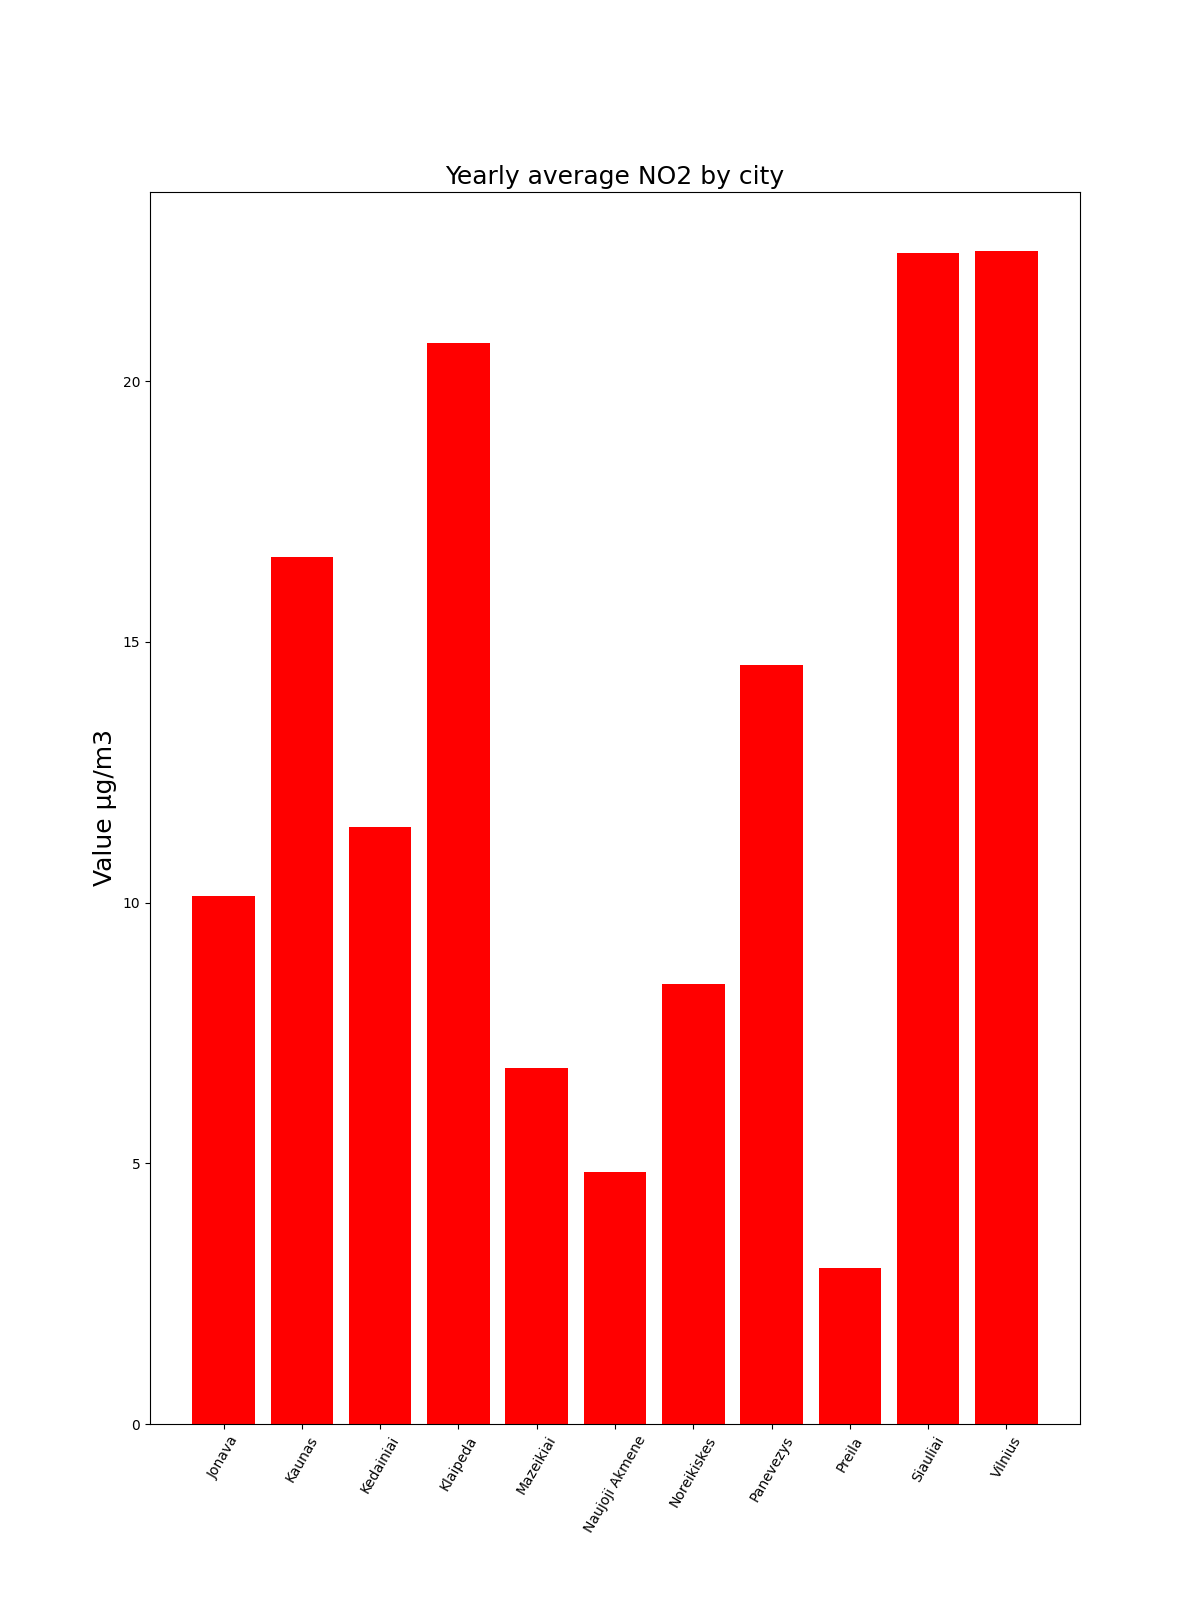
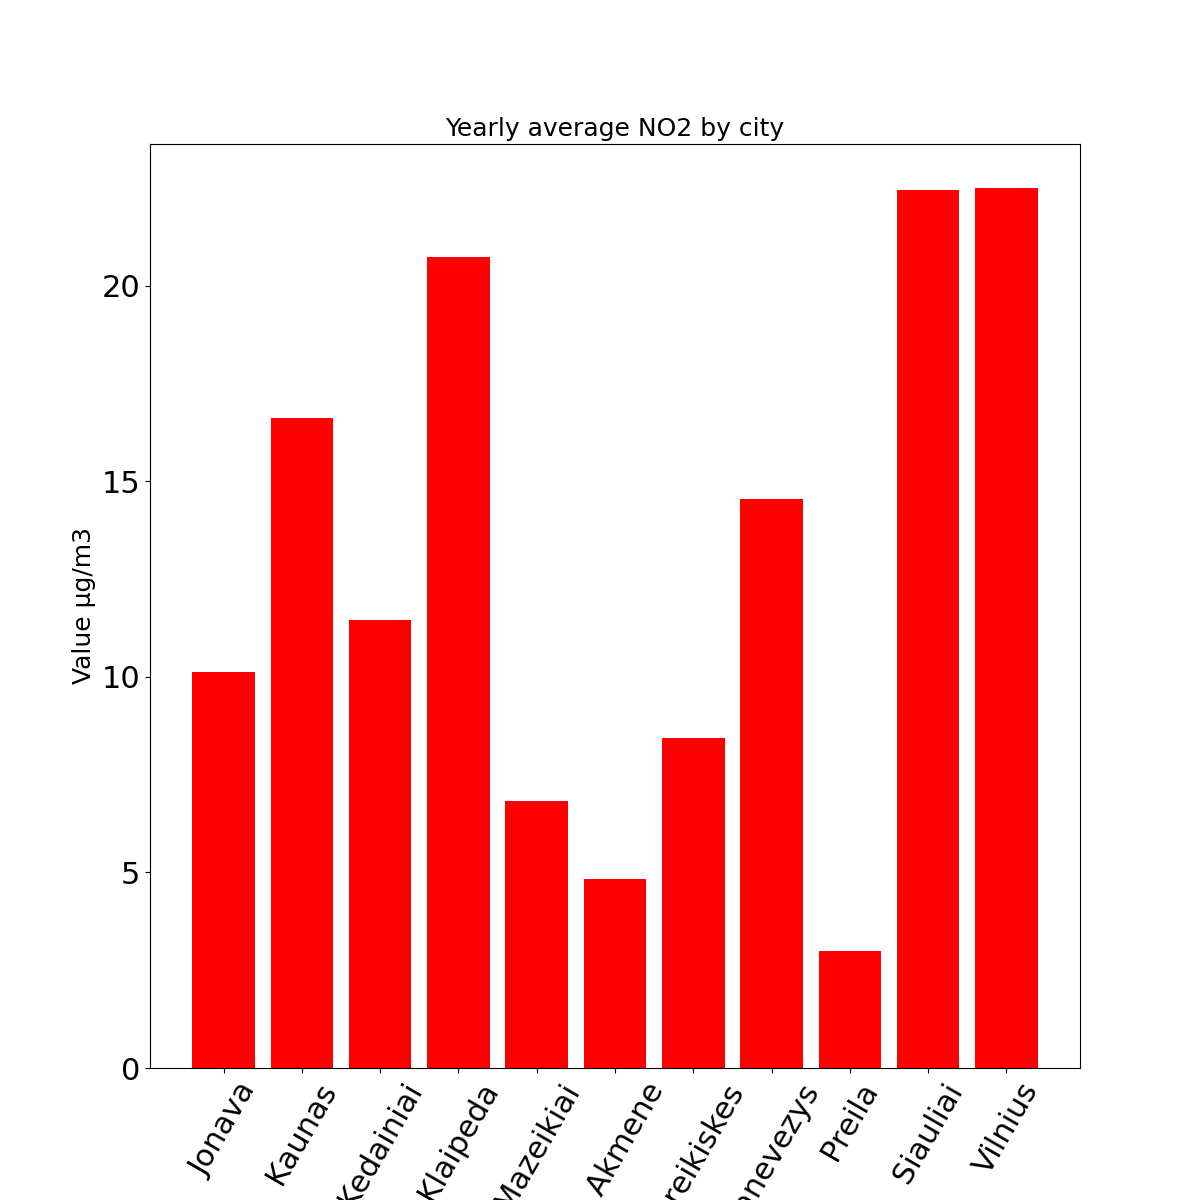
update

diff --git a/html/live_map.html b/html/live_map.html
@@ -25,7 +25,7 @@
             <meta name="viewport" content="width=device-width,
                 initial-scale=1.0, maximum-scale=1.0, user-scalable=no" />
             <style>
-                #map_e0afb3245011cf2587e348d327e711dc {
+                #map_e2ff37610c3a9b7bd32cf9a162b921fe {
                     position: relative;
                     width: 100.0%;
                     height: 100.0%;
@@ -39,14 +39,14 @@
 <body>
     
     
-            <div class="folium-map" id="map_e0afb3245011cf2587e348d327e711dc" ></div>
+            <div class="folium-map" id="map_e2ff37610c3a9b7bd32cf9a162b921fe" ></div>
         
 </body>
 <script>
     
     
-            var map_e0afb3245011cf2587e348d327e711dc = L.map(
-                "map_e0afb3245011cf2587e348d327e711dc",
+            var map_e2ff37610c3a9b7bd32cf9a162b921fe = L.map(
+                "map_e2ff37610c3a9b7bd32cf9a162b921fe",
                 {
                     center: [55.11201074940712, 24.065172740215825],
                     crs: L.CRS.EPSG3857,
@@ -60,42 +60,42 @@
 
         
     
-            var tile_layer_abd4ab80337f110446980473f0b4ad60 = L.tileLayer(
+            var tile_layer_9477a2d74ea925e4f2a069037dcdb2f0 = L.tileLayer(
                 "https://cartodb-basemaps-{s}.global.ssl.fastly.net/light_all/{z}/{x}/{y}.png",
                 {"attribution": "\u0026copy; \u003ca target=\"_blank\" href=\"http://www.openstreetmap.org/copyright\"\u003eOpenStreetMap\u003c/a\u003e contributors \u0026copy; \u003ca target=\"_blank\" href=\"http://cartodb.com/attributions\"\u003eCartoDB\u003c/a\u003e, CartoDB \u003ca target=\"_blank\" href =\"http://cartodb.com/attributions\"\u003eattributions\u003c/a\u003e", "detectRetina": false, "maxNativeZoom": 18, "maxZoom": 18, "minZoom": 0, "noWrap": false, "opacity": 1, "subdomains": "abc", "tms": false}
             );
         
     
-                tile_layer_abd4ab80337f110446980473f0b4ad60.addTo(map_e0afb3245011cf2587e348d327e711dc);
+                tile_layer_9477a2d74ea925e4f2a069037dcdb2f0.addTo(map_e2ff37610c3a9b7bd32cf9a162b921fe);
     
-            var marker_c5a940f0e470c2238f8c98301d4bce6c = L.marker(
+            var marker_946278661c0479521d5700432ae30b32 = L.marker(
                 [54.68906449, 25.27499907],
                 {}
-            ).addTo(map_e0afb3245011cf2587e348d327e711dc);
+            ).addTo(map_e2ff37610c3a9b7bd32cf9a162b921fe);
         
     
-            var icon_150400d550ca0c84a71dc48befdf7dd8 = L.AwesomeMarkers.icon(
+            var icon_f0bc68cc436bf83e31576eef144fb309 = L.AwesomeMarkers.icon(
                 {"extraClasses": "fa-rotate-0", "icon": "cloud", "iconColor": "white", "markerColor": "blue", "prefix": "glyphicon"}
             );
-            marker_c5a940f0e470c2238f8c98301d4bce6c.setIcon(icon_150400d550ca0c84a71dc48befdf7dd8);
+            marker_946278661c0479521d5700432ae30b32.setIcon(icon_f0bc68cc436bf83e31576eef144fb309);
         
     
-        var popup_76e0729af2dc033c17e2acf54413f1d5 = L.popup({"maxWidth": 500});
+        var popup_9b38ae539fdc90bb841bae19ffb964cf = L.popup({"maxWidth": 500});
 
         
             
-                var html_03da1cab95e948f3cc39677cd59ec173 = $(`<div id="html_03da1cab95e948f3cc39677cd59ec173" style="width: 100.0%; height: 100.0%;">Vilnius Air Quality Data: AQI=9; PM2.5=64; PM10=20; O3=8.5</div>`)[0];
-                popup_76e0729af2dc033c17e2acf54413f1d5.setContent(html_03da1cab95e948f3cc39677cd59ec173);
+                var html_a5994cd75344a7f541b2eb67c5257f61 = $(`<div id="html_a5994cd75344a7f541b2eb67c5257f61" style="width: 100.0%; height: 100.0%;">Vilnius Air Quality Data: AQI=11; PM2.5=62; PM10=21; O3=10.8</div>`)[0];
+                popup_9b38ae539fdc90bb841bae19ffb964cf.setContent(html_a5994cd75344a7f541b2eb67c5257f61);
             
         
 
-        marker_c5a940f0e470c2238f8c98301d4bce6c.bindPopup(popup_76e0729af2dc033c17e2acf54413f1d5)
+        marker_946278661c0479521d5700432ae30b32.bindPopup(popup_9b38ae539fdc90bb841bae19ffb964cf)
         ;
 
         
     
     
-            marker_c5a940f0e470c2238f8c98301d4bce6c.bindTooltip(
+            marker_946278661c0479521d5700432ae30b32.bindTooltip(
                 `<div>
                      Click here for more info!
                  </div>`,
@@ -103,34 +103,34 @@
             );
         
     
-            var marker_c303f8b335c019cd5305679f4ef78e94 = L.marker(
+            var marker_cb128536d39179bf47056287c0a968ed = L.marker(
                 [54.91064874, 23.89693172],
                 {}
-            ).addTo(map_e0afb3245011cf2587e348d327e711dc);
+            ).addTo(map_e2ff37610c3a9b7bd32cf9a162b921fe);
         
     
-            var icon_68a67b5dc6c2679ccd0ba8092b70977d = L.AwesomeMarkers.icon(
+            var icon_3028e801a7f380b7812e988b107a19be = L.AwesomeMarkers.icon(
                 {"extraClasses": "fa-rotate-0", "icon": "cloud", "iconColor": "white", "markerColor": "blue", "prefix": "glyphicon"}
             );
-            marker_c303f8b335c019cd5305679f4ef78e94.setIcon(icon_68a67b5dc6c2679ccd0ba8092b70977d);
+            marker_cb128536d39179bf47056287c0a968ed.setIcon(icon_3028e801a7f380b7812e988b107a19be);
         
     
-        var popup_c5a99f39edeed53d5d4bf1065bf97fc8 = L.popup({"maxWidth": 500});
+        var popup_a73ad0a89d2b08d1a8adbea6a5e1b4f2 = L.popup({"maxWidth": 500});
 
         
             
-                var html_e3f292a0843dbe65c2bcdd4242730956 = $(`<div id="html_e3f292a0843dbe65c2bcdd4242730956" style="width: 100.0%; height: 100.0%;">Kaunas Air Quality Data: AQI=60; PM2.5=60; PM10=24; O3=16.6</div>`)[0];
-                popup_c5a99f39edeed53d5d4bf1065bf97fc8.setContent(html_e3f292a0843dbe65c2bcdd4242730956);
+                var html_32e04930dc6b981070cf12ff58ef031c = $(`<div id="html_32e04930dc6b981070cf12ff58ef031c" style="width: 100.0%; height: 100.0%;">Kaunas Air Quality Data: AQI=16; PM2.5=60; PM10=24; O3=16.3</div>`)[0];
+                popup_a73ad0a89d2b08d1a8adbea6a5e1b4f2.setContent(html_32e04930dc6b981070cf12ff58ef031c);
             
         
 
-        marker_c303f8b335c019cd5305679f4ef78e94.bindPopup(popup_c5a99f39edeed53d5d4bf1065bf97fc8)
+        marker_cb128536d39179bf47056287c0a968ed.bindPopup(popup_a73ad0a89d2b08d1a8adbea6a5e1b4f2)
         ;
 
         
     
     
-            marker_c303f8b335c019cd5305679f4ef78e94.bindTooltip(
+            marker_cb128536d39179bf47056287c0a968ed.bindTooltip(
                 `<div>
                      Click me!
                  </div>`,
@@ -138,34 +138,34 @@
             );
         
     
-            var marker_3578f0069e754f8a75ed5ecde6f9b95b = L.marker(
+            var marker_e1c1430b4d0ec25fd5094d7c3b887af7 = L.marker(
                 [55.72646869, 21.12991317],
                 {}
-            ).addTo(map_e0afb3245011cf2587e348d327e711dc);
+            ).addTo(map_e2ff37610c3a9b7bd32cf9a162b921fe);
         
     
-            var icon_387f8ea2d4576d1658b603742d0a642c = L.AwesomeMarkers.icon(
+            var icon_9ebfcd6d1ca494dc2fcaf794d99830f8 = L.AwesomeMarkers.icon(
                 {"extraClasses": "fa-rotate-0", "icon": "cloud", "iconColor": "white", "markerColor": "blue", "prefix": "glyphicon"}
             );
-            marker_3578f0069e754f8a75ed5ecde6f9b95b.setIcon(icon_387f8ea2d4576d1658b603742d0a642c);
+            marker_e1c1430b4d0ec25fd5094d7c3b887af7.setIcon(icon_9ebfcd6d1ca494dc2fcaf794d99830f8);
         
     
-        var popup_894e3d4fb27042608bbb25d29250d5a1 = L.popup({"maxWidth": 500});
+        var popup_2b02cd0e39db2a0cefcc1a24323ed90f = L.popup({"maxWidth": 500});
 
         
             
-                var html_9d797a3dbdc929c8ba148ec22ca7541b = $(`<div id="html_9d797a3dbdc929c8ba148ec22ca7541b" style="width: 100.0%; height: 100.0%;">Klaipėda Air Quality Data: AQI=60; PM2.5=60; PM10=25; O3=11.4</div>`)[0];
-                popup_894e3d4fb27042608bbb25d29250d5a1.setContent(html_9d797a3dbdc929c8ba148ec22ca7541b);
+                var html_b20d746ab2518d280675597812ed068b = $(`<div id="html_b20d746ab2518d280675597812ed068b" style="width: 100.0%; height: 100.0%;">Klaipėda Air Quality Data: AQI=13; PM2.5=60; PM10=25; O3=13.4</div>`)[0];
+                popup_2b02cd0e39db2a0cefcc1a24323ed90f.setContent(html_b20d746ab2518d280675597812ed068b);
             
         
 
-        marker_3578f0069e754f8a75ed5ecde6f9b95b.bindPopup(popup_894e3d4fb27042608bbb25d29250d5a1)
+        marker_e1c1430b4d0ec25fd5094d7c3b887af7.bindPopup(popup_2b02cd0e39db2a0cefcc1a24323ed90f)
         ;
 
         
     
     
-            marker_3578f0069e754f8a75ed5ecde6f9b95b.bindTooltip(
+            marker_e1c1430b4d0ec25fd5094d7c3b887af7.bindTooltip(
                 `<div>
                      Click me!
                  </div>`,
@@ -173,34 +173,34 @@
             );
         
     
-            var marker_04d7bdc5fe2c7488227f86211398099a = L.marker(
+            var marker_fa498b2a8f456295361a6005ef6f9114 = L.marker(
                 [56.31768759773947, 22.89277557811417],
                 {}
-            ).addTo(map_e0afb3245011cf2587e348d327e711dc);
+            ).addTo(map_e2ff37610c3a9b7bd32cf9a162b921fe);
         
     
-            var icon_5cfbdbc2831cadf020ebb78f28f797cb = L.AwesomeMarkers.icon(
+            var icon_25dc3955badf5271b354d368370a6d43 = L.AwesomeMarkers.icon(
                 {"extraClasses": "fa-rotate-0", "icon": "cloud", "iconColor": "white", "markerColor": "blue", "prefix": "glyphicon"}
             );
-            marker_04d7bdc5fe2c7488227f86211398099a.setIcon(icon_5cfbdbc2831cadf020ebb78f28f797cb);
+            marker_fa498b2a8f456295361a6005ef6f9114.setIcon(icon_25dc3955badf5271b354d368370a6d43);
         
     
-        var popup_4a22386ca51f77beed393d82c2f983bc = L.popup({"maxWidth": 500});
+        var popup_8ba2ff4d0e710557f2b8c86e88ecd9ee = L.popup({"maxWidth": 500});
 
         
             
-                var html_107812637d6ee74bae7bdcb41bfe8851 = $(`<div id="html_107812637d6ee74bae7bdcb41bfe8851" style="width: 100.0%; height: 100.0%;">Naujoji Akmenė Air Quality Data: AQI=3; PM2.5=50; PM10=18; SO2=3.1</div>`)[0];
-                popup_4a22386ca51f77beed393d82c2f983bc.setContent(html_107812637d6ee74bae7bdcb41bfe8851);
+                var html_dcecc4efa277165176a5b38a95eb6b90 = $(`<div id="html_dcecc4efa277165176a5b38a95eb6b90" style="width: 100.0%; height: 100.0%;">Naujoji Akmenė Air Quality Data: AQI=3; PM2.5=14; PM10=5; SO2=3.1</div>`)[0];
+                popup_8ba2ff4d0e710557f2b8c86e88ecd9ee.setContent(html_dcecc4efa277165176a5b38a95eb6b90);
             
         
 
-        marker_04d7bdc5fe2c7488227f86211398099a.bindPopup(popup_4a22386ca51f77beed393d82c2f983bc)
+        marker_fa498b2a8f456295361a6005ef6f9114.bindPopup(popup_8ba2ff4d0e710557f2b8c86e88ecd9ee)
         ;
 
         
     
     
-            marker_04d7bdc5fe2c7488227f86211398099a.bindTooltip(
+            marker_fa498b2a8f456295361a6005ef6f9114.bindTooltip(
                 `<div>
                      Click here!
                  </div>`,
@@ -208,34 +208,34 @@
             );
         
     
-            var marker_1500b1ef6bb76e47fcb28ac8f5872776 = L.marker(
+            var marker_b2f2d4adbec4d6053fa44e632d3e2c3c = L.marker(
                 [55.72564804568164, 21.931172247247403],
                 {}
-            ).addTo(map_e0afb3245011cf2587e348d327e711dc);
+            ).addTo(map_e2ff37610c3a9b7bd32cf9a162b921fe);
         
     
-            var icon_9b2b6a4318f564bbf3eded654d6721e0 = L.AwesomeMarkers.icon(
+            var icon_b975f8de9ce7f681aae8771a52d6c4b5 = L.AwesomeMarkers.icon(
                 {"extraClasses": "fa-rotate-0", "icon": "cloud", "iconColor": "white", "markerColor": "blue", "prefix": "glyphicon"}
             );
-            marker_1500b1ef6bb76e47fcb28ac8f5872776.setIcon(icon_9b2b6a4318f564bbf3eded654d6721e0);
+            marker_b2f2d4adbec4d6053fa44e632d3e2c3c.setIcon(icon_b975f8de9ce7f681aae8771a52d6c4b5);
         
     
-        var popup_75c0dec2afd350678e4514ba8b998ce3 = L.popup({"maxWidth": 500});
+        var popup_00aa1234b44fa437d4967bca9269efef = L.popup({"maxWidth": 500});
 
         
             
-                var html_b87506c080676f5dfd68696081316a89 = $(`<div id="html_b87506c080676f5dfd68696081316a89" style="width: 100.0%; height: 100.0%;">Rietavas Air Quality Data: AQI=15; O3=14.8; SO2=1.1</div>`)[0];
-                popup_75c0dec2afd350678e4514ba8b998ce3.setContent(html_b87506c080676f5dfd68696081316a89);
+                var html_39164a4c3d47e40caaca22a220b5afcf = $(`<div id="html_39164a4c3d47e40caaca22a220b5afcf" style="width: 100.0%; height: 100.0%;">Rietavas Air Quality Data: AQI=15; O3=15.2; SO2=1.1</div>`)[0];
+                popup_00aa1234b44fa437d4967bca9269efef.setContent(html_39164a4c3d47e40caaca22a220b5afcf);
             
         
 
-        marker_1500b1ef6bb76e47fcb28ac8f5872776.bindPopup(popup_75c0dec2afd350678e4514ba8b998ce3)
+        marker_b2f2d4adbec4d6053fa44e632d3e2c3c.bindPopup(popup_00aa1234b44fa437d4967bca9269efef)
         ;
 
         
     
     
-            marker_1500b1ef6bb76e47fcb28ac8f5872776.bindTooltip(
+            marker_b2f2d4adbec4d6053fa44e632d3e2c3c.bindTooltip(
                 `<div>
                      Click here!
                  </div>`,

diff --git a/final_project.py b/final_project.py
@@ -23,6 +23,7 @@ df = df.replace('Kėdainiai', 'Kedainiai')
 df = df.replace('Mažeikiai', 'Mazeikiai')
 df = df.replace('Naujoji Akmenė', 'Naujoji Akmene')
 df = df.replace('Panevėžys', 'Panevezys')
+df = df.replace('Naujoji Akmene', 'N. Akmene')
 
 ### assigning prefered data types to column values
 df['PM2.5'] = df['PM2.5'].astype(int)
@@ -83,7 +84,7 @@ def show_air_quality_statistics_by_year():
 
 def show_city_PM25_average():
     x = avg_city_PM25['City']
-    plt.figure(figsize=(12, 10))
+    plt.figure(figsize=(12, 12))
     plt.bar(x, avg_city_PM25['PM2.5'], color='green')
     plt.ylabel('Value μg/m3', fontsize=18)
     plt.title('Yearly average PM2.5 by city', fontsize=18)
@@ -91,11 +92,11 @@ def show_city_PM25_average():
     plt.rcParams.update({'font.size': 22})
     plt.savefig(f'{save_address}jpeg/city_pm25_avg')
     plt.show()
-# show_city_PM25_average()
+show_city_PM25_average()
 
 def show_city_PM10_average():
     x = avg_city_PM10['City']
-    plt.figure(figsize=(12, 18))
+    plt.figure(figsize=(12, 12))
     plt.bar(x, avg_city_PM10['PM10'], color='blue')
     plt.ylabel('Value μg/m3', fontsize=18)
     plt.title('Yearly average PM10 by city', fontsize=18)
@@ -103,11 +104,11 @@ def show_city_PM10_average():
     plt.rcParams.update({'font.size': 22})
     plt.savefig(f'{save_address}jpeg/city_PM10_avg')
     plt.show()
-# show_city_PM10_average()
+show_city_PM10_average()
 
 def show_city_NO2_average():
     x = avg_city_NO2['City']
-    plt.figure(figsize=(12, 16))
+    plt.figure(figsize=(12, 12))
     plt.bar(x, avg_city_NO2['NO2'], color='red')
     plt.ylabel('Value μg/m3', fontsize=18)
     plt.title('Yearly average NO2 by city', fontsize=18)
@@ -115,7 +116,7 @@ def show_city_NO2_average():
     plt.rcParams.update({'font.size': 22})
     plt.savefig(f'{save_address}jpeg/city_NO2_avg')
     plt.show()
-# show_city_NO2_average()
+show_city_NO2_average()
 
 live_df = pd.read_csv(f'{save_address}csv/live_data.csv')
 # print(live_df)
